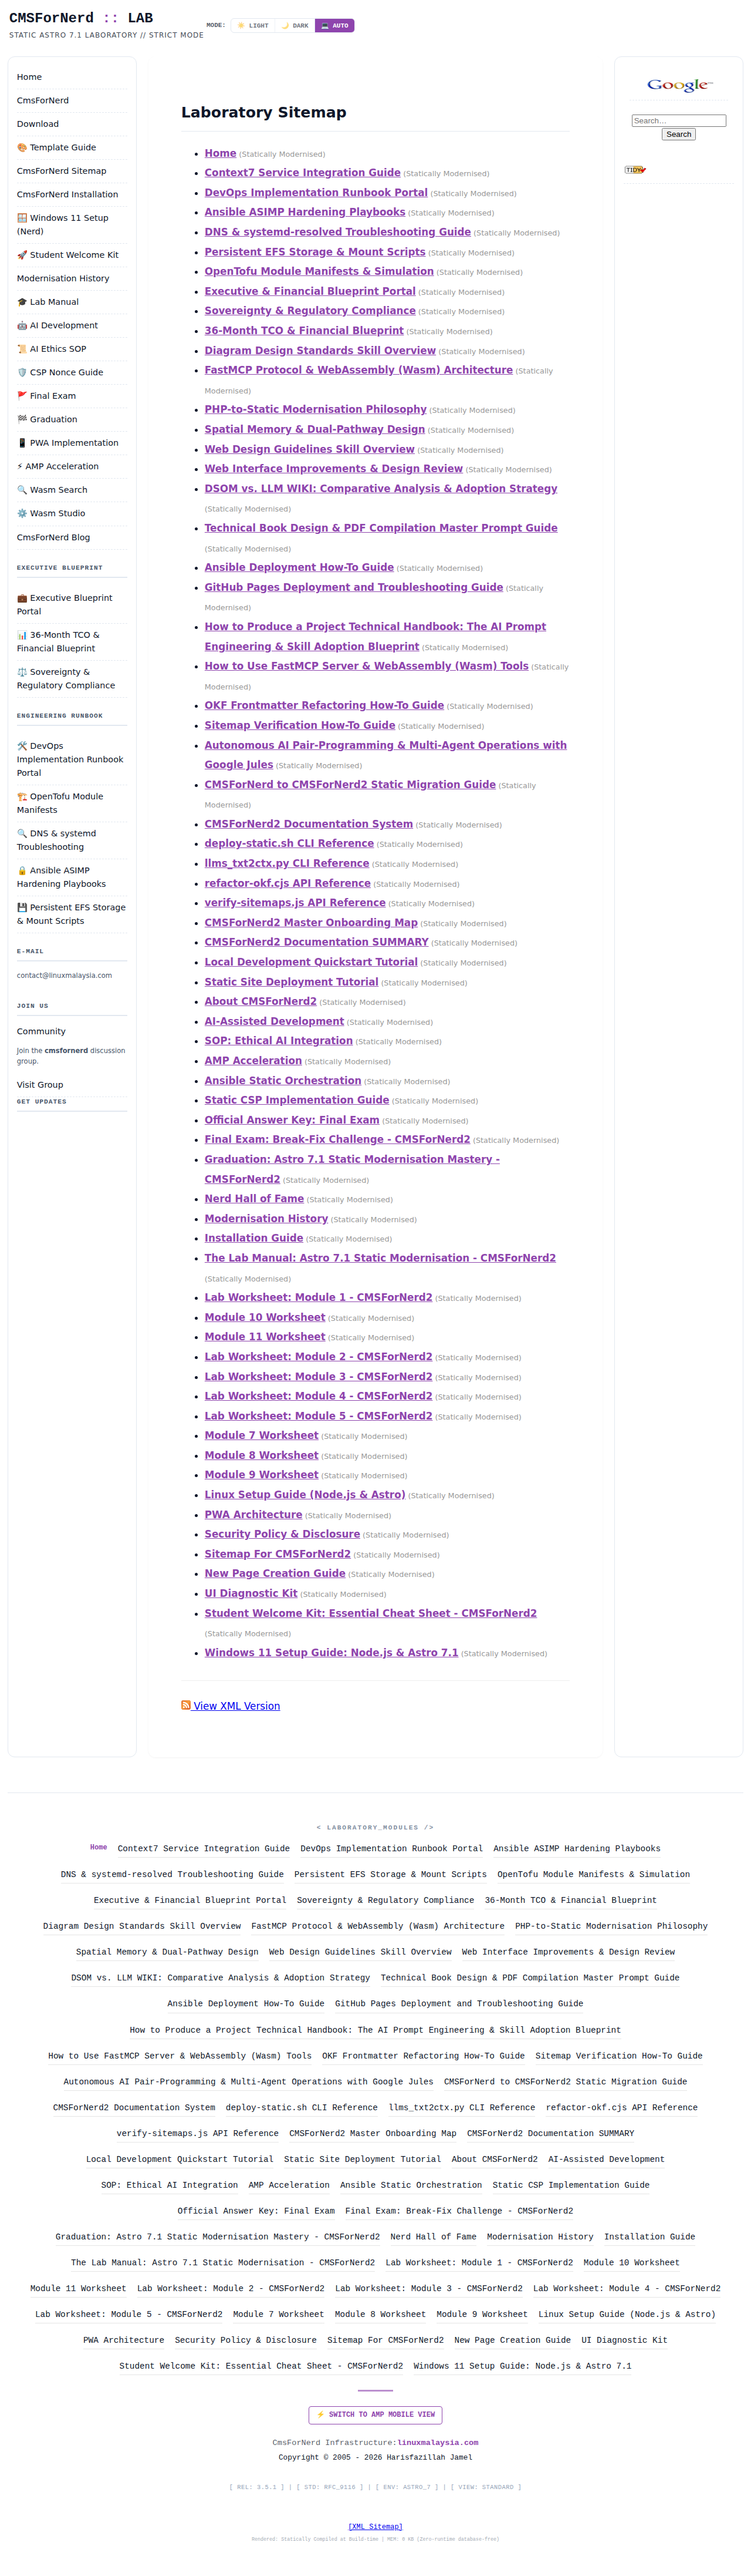
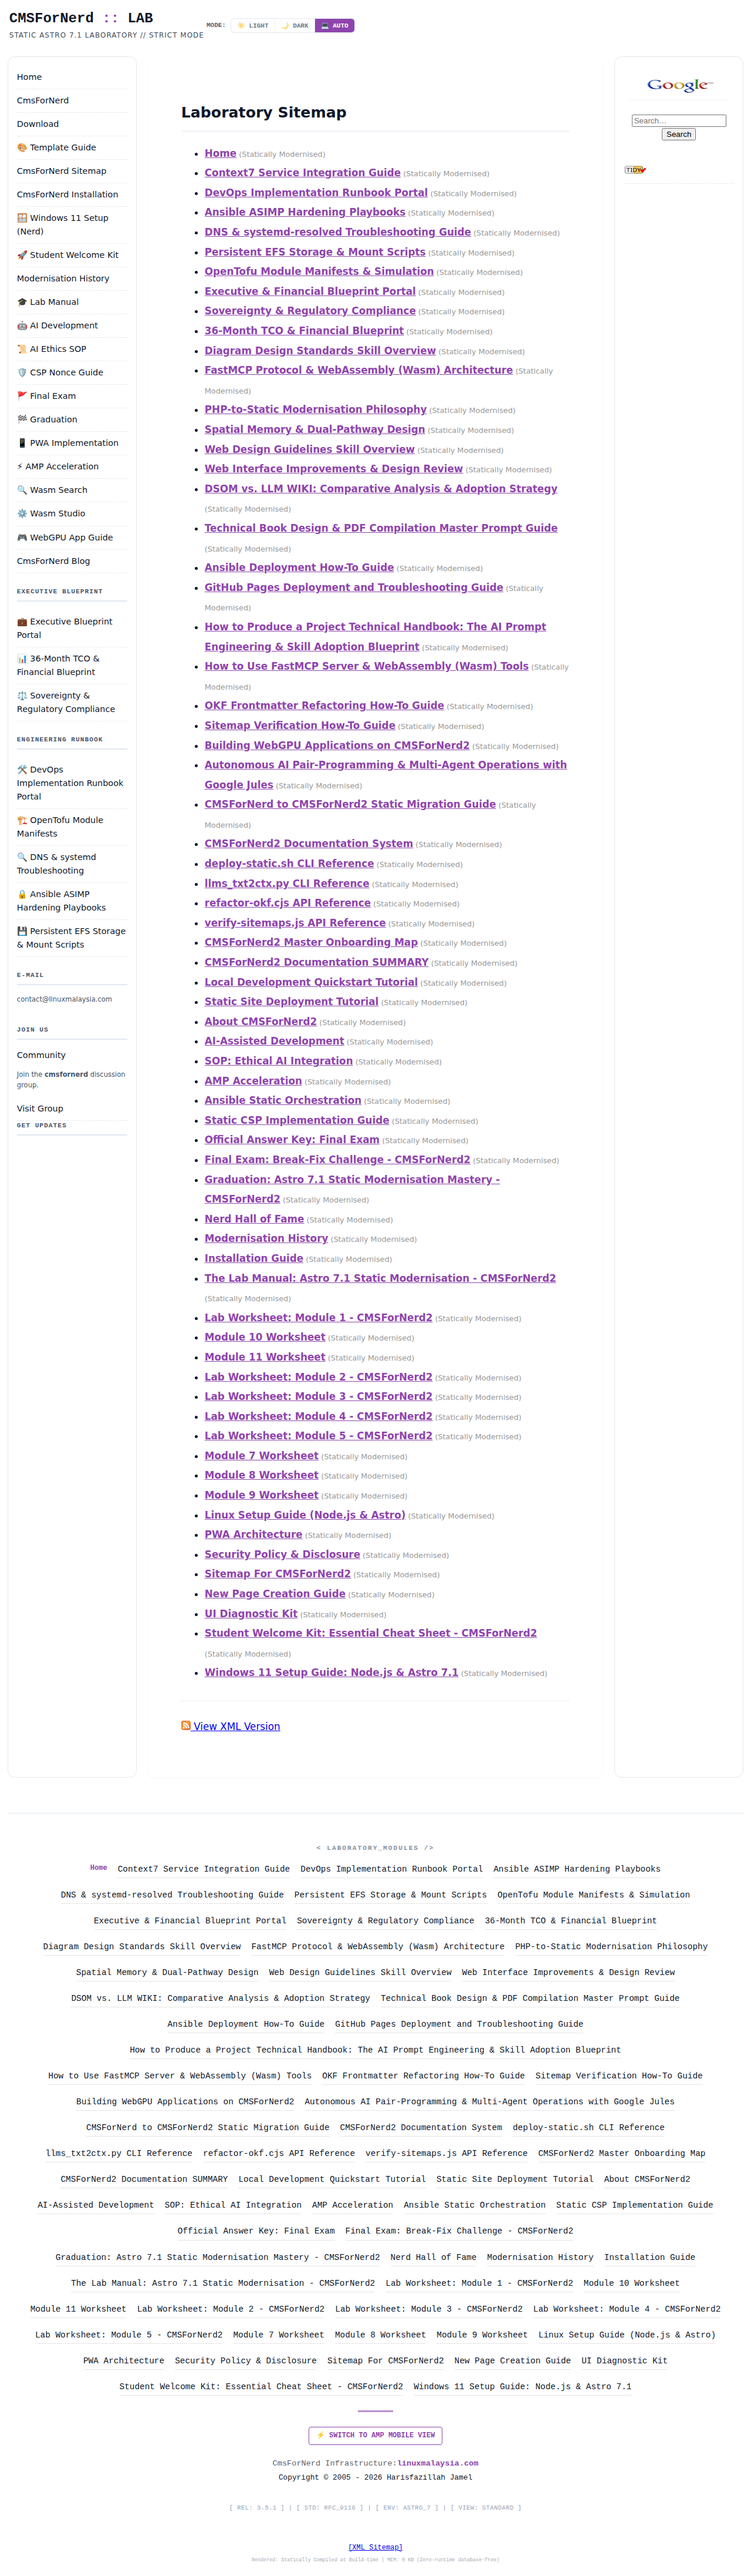
Add WebGPU application development documentation
Add a comprehensive developer guide for building WebGPU applications
on CMSForNerd2 in docs/how-to/webgpu-application-development.md.
Includes tri-tiered ensemble fallback architecture, capability probing,
WebLLM integration, IndexedDB RAG context coupling, and Nginx security
headers. Indexed in docs/SUMMARY.md, docs/README.md, and Navigation.astro.

diff --git a/docs/how-to/webgpu-application-development.md b/docs/how-to/webgpu-application-development.md
@@ -1,0 +1,307 @@
+---
+spec_version: "0.2"
+type: "how_to"
+title: "Building WebGPU Applications on CMSForNerd2"
+description: "Comprehensive guide and developer manual for implementing WebGPU hardware acceleration, WebLLM on-device inference, dynamic tri-tiered ensemble fallbacks, and air-gapped RAG pipelines within web applications based on CMSForNerd2."
+topics: ["webgpu", "webllm", "wasm", "ensemble", "air-gapped", "rag", "how-to"]
+okf_version: "0.2"
+nav_order: 2
+status: "stable"
+stale_after: "2027-03-06"
+sources:
+- id: workspace_file
+  title: webgpu-application-development.md
+  url: docs/how-to/webgpu-application-development.md
+generated:
+  by: Repository Architect & OKF v0.2 Compliance Agent
+  timestamp: '2026-09-08T00:00:00Z'
+tags: ["webgpu", "webllm", "wasm", "ensemble", "air-gapped", "rag", "how-to"]
+---
+
+# Building WebGPU Applications on CMSForNerd2
+
+This guide provides a complete developer manual and step-by-step implementation framework for building modern, air-gapped web applications powered by **WebGPU** hardware acceleration on top of **CMSForNerd2**.
+
+---
+
+## 1. WebGPU Architecture in CMSForNerd2
+
+CMSForNerd2 leverages WebGPU to deliver low-latency, 100% offline, privacy-preserving artificial intelligence directly within the user's web browser. By executing quantized LLM tensors (`Llama-3.2-1B-Instruct-q4f16`, `Qwen2.5-0.5B-Instruct-q4f16`) via GPU compute shaders, web applications achieve high-throughput inference without server backends or network data transmission.
+
+### Tri-Tiered Ensemble Pipeline Architecture
+
+#### 1. ASCII Tree Diagram
+
+```
+                              ┌──────────────────────────┐
+                              │    User Hardware Request  │
+                              └────────────┬─────────────┘
+                                           │
+                                  Capability Probe
+                                           │
+             ┌─────────────────────────────┼─────────────────────────────┐
+             ▼                             ▼                             ▼
+  ┌──────────────────────┐      ┌──────────────────────┐      ┌──────────────────────┐
+  │ Tier 1: WebGPU       │      │ Tier 2: Wasm SIMD    │      │ Tier 3: AST Guardrail│
+  │ Hardware Accelerator │      │ Multi-Thread CPU     │      │ Rule-Based Synthesiser│
+  └──────────────────────┘      └──────────────────────┘      └──────────────────────┘
+```
+
+#### 2. Standalone Dark Slate Raw SVG Vector Graphic (`.svg`)
+
+```xml
+<svg xmlns="http://www.w3.org/2000/svg" viewBox="0 0 800 360" width="100%" height="100%">
+  <defs>
+    <marker id="arrow" viewBox="0 0 10 10" refX="6" refY="5" markerWidth="6" markerHeight="6" orient="auto-start-reverse">
+      <path d="M 0 0 L 10 5 L 0 10 z" fill="#94A3B8"/>
+    </marker>
+  </defs>
+
+  <rect width="100%" height="100%" fill="#0F172A" rx="12"/>
+
+  <text x="400" y="35" text-anchor="middle" fill="#38BDF8" font-family="-apple-system, sans-serif" font-size="16" font-weight="bold" letter-spacing="1">WEBGPU TRI-TIERED ENSEMBLE FALLBACK ARCHITECTURE</text>
+
+  <!-- Probe Node -->
+  <rect x="250" y="60" width="300" height="50" rx="8" fill="#1E293B" stroke="#38BDF8" stroke-width="2"/>
+  <text x="400" y="90" text-anchor="middle" fill="#FFFFFF" font-family="-apple-system, sans-serif" font-size="12" font-weight="bold">HARDWARE CAPABILITY PROBE ('gpu' in navigator)</text>
+
+  <!-- Branch Lines -->
+  <path d="M 300 110 L 150 160" stroke="#94A3B8" stroke-width="2" marker-end="url(#arrow)"/>
+  <path d="M 400 110 L 400 160" stroke="#94A3B8" stroke-width="2" marker-end="url(#arrow)"/>
+  <path d="M 500 110 L 650 160" stroke="#94A3B8" stroke-width="2" marker-end="url(#arrow)"/>
+
+  <!-- Tier 1 -->
+  <rect x="30" y="160" width="220" height="150" rx="8" fill="#1E293B" stroke="#4ADE80" stroke-width="2"/>
+  <rect x="30" y="160" width="220" height="28" rx="8" fill="#15803D"/>
+  <text x="140" y="179" text-anchor="middle" fill="#FFFFFF" font-family="-apple-system, sans-serif" font-size="11" font-weight="bold">TIER 1: WEBGPU PRIMARY</text>
+  <text x="140" y="210" text-anchor="middle" fill="#F8FAFC" font-family="-apple-system, sans-serif" font-size="11">GPU Compute Shaders</text>
+  <text x="140" y="230" text-anchor="middle" fill="#E2E8F0" font-family="Consolas, monospace" font-size="10">WebLLM Matrix Tensors</text>
+  <text x="140" y="260" text-anchor="middle" fill="#4ADE80" font-family="-apple-system, sans-serif" font-size="11" font-weight="bold">High Throughput (~42 t/s)</text>
+  <text x="140" y="285" text-anchor="middle" fill="#94A3B8" font-family="-apple-system, sans-serif" font-size="10">Zero Network Leakage</text>
+
+  <!-- Tier 2 -->
+  <rect x="290" y="160" width="220" height="150" rx="8" fill="#1E293B" stroke="#FBBF24" stroke-width="2"/>
+  <rect x="290" y="160" width="220" height="28" rx="8" fill="#B45309"/>
+  <text x="400" y="179" text-anchor="middle" fill="#FFFFFF" font-family="-apple-system, sans-serif" font-size="11" font-weight="bold">TIER 2: WASM SIMD CPU</text>
+  <text x="400" y="210" text-anchor="middle" fill="#F8FAFC" font-family="-apple-system, sans-serif" font-size="11">Multi-Thread CPU Fallback</text>
+  <text x="400" y="230" text-anchor="middle" fill="#E2E8F0" font-family="Consolas, monospace" font-size="10">128-bit Vector Registers</text>
+  <text x="400" y="260" text-anchor="middle" fill="#FBBF24" font-family="-apple-system, sans-serif" font-size="11" font-weight="bold">Moderate (~12 t/s)</text>
+  <text x="400" y="285" text-anchor="middle" fill="#94A3B8" font-family="-apple-system, sans-serif" font-size="10">Restricted GPU Adapters</text>
+
+  <!-- Tier 3 -->
+  <rect x="550" y="160" width="220" height="150" rx="8" fill="#1E293B" stroke="#C084FC" stroke-width="2"/>
+  <rect x="550" y="160" width="220" height="28" rx="8" fill="#6B21A8"/>
+  <text x="660" y="179" text-anchor="middle" fill="#FFFFFF" font-family="-apple-system, sans-serif" font-size="11" font-weight="bold">TIER 3: AST SYNTHESISER</text>
+  <text x="660" y="210" text-anchor="middle" fill="#F8FAFC" font-family="-apple-system, sans-serif" font-size="11">WebTreeSitter AST Engine</text>
+  <text x="660" y="230" text-anchor="middle" fill="#E2E8F0" font-family="Consolas, monospace" font-size="10">Deterministic Parsing</text>
+  <text x="660" y="260" text-anchor="middle" fill="#C084FC" font-family="-apple-system, sans-serif" font-size="11" font-weight="bold">Instant Repair (&lt;2ms)</text>
+  <text x="660" y="285" text-anchor="middle" fill="#94A3B8" font-family="-apple-system, sans-serif" font-size="10">Structural Code Repair</text>
+</svg>
+```
+
+#### 3. Git-Native Mermaid Diagram (`.mmd`)
+
+```mermaid
+graph TD
+    subgraph Probe ["Hardware Initialization"]
+        PROBE["Probe Navigator (`'gpu' in navigator`)"]
+    end
+
+    subgraph Tiers ["Tri-Tiered Fallback Pipeline"]
+        T1["Tier 1: WebGPU Compute Shaders<br/>(Primary WebLLM Engine)"]
+        T2["Tier 2: Wasm SIMD CPU Fallback<br/>(Secondary Multi-Threaded Engine)"]
+        T3["Tier 3: WebTreeSitter AST Synthesiser<br/>(Deterministic Guardrail Layer)"]
+    end
+
+    PROBE -->|"WebGPU Supported & Ready"| T1
+    PROBE -->|"GPU Unavailable / Isolated"| T2
+    T2 -->|"Model Loading Failed / Hardware Constraint"| T3
+```
+
+#### 4. Summary Interface & Routing Table
+
+| Tier Layer | Runtime Engine | Primary Use Case | Hardware Requirement | Fallback Trigger |
+| :--- | :--- | :--- | :--- | :--- |
+| **Tier 1 (Primary)** | `@mlc-ai/web-llm` over WebGPU | Quantized LLM inference & RAG synthesis | Modern GPU compute adapter (`navigator.gpu`) | WebGPU adapter absent or origin isolation disabled |
+| **Tier 2 (Fallback)** | WebAssembly 128-bit SIMD | Multi-threaded CPU LLM inference | Multi-core CPU with Wasm SIMD support | Model memory allocation overflow or GPU driver timeout |
+| **Tier 3 (Guardrail)** | `web-tree-sitter` WASM AST | Structural syntax parsing & deterministic repairs | Standard browser JS runtime | Complete LLM engine unreachability or offline emergency |
+
+---
+
+## 2. Hardware Capability Detection & Setup
+
+Before initializing WebGPU inference pipelines, your application must inspect client browser capabilities and report fallback states to the user.
+
+### Detecting WebGPU and Memory Boundaries
+
+```javascript
+/**
+ * Probes browser capabilities for WebGPU, Wasm 128-bit SIMD, and cross-origin isolation.
+ * @returns {Promise<Object>} Status report containing capability booleans and recommendations.
+ */
+async function inspectWebGPUCapabilities() {
+  const hasWebGPU = ('gpu' in navigator);
+  let adapterInfo = null;
+
+  if (hasWebGPU) {
+    try {
+      const adapter = await navigator.gpu.requestAdapter();
+      if (adapter) {
+        adapterInfo = await adapter.requestAdapterInfo();
+      }
+    } catch (err) {
+      console.warn('WebGPU adapter request failed:', err);
+    }
+  }
+
+  const hasSIMD = typeof WebAssembly === 'object' && typeof WebAssembly.validate === 'function' &&
+    WebAssembly.validate(new Uint8Array([0,97,115,109,1,0,0,0,1,5,1,96,0,1,123,3,2,1,0,10,10,1,8,0,65,0,253,15,26,11]));
+
+  const isIsolated = window.crossOriginIsolated === true;
+  const deviceMemory = navigator.deviceMemory || 'Unrestricted';
+
+  return {
+    hasWebGPU: Boolean(hasWebGPU && adapterInfo),
+    adapterName: adapterInfo ? adapterInfo.description || adapterInfo.vendor : 'Unavailable',
+    hasSIMD,
+    isIsolated,
+    deviceMemory: typeof deviceMemory === 'number' ? `${deviceMemory} GB` : deviceMemory,
+    recommendedTier: (hasWebGPU && adapterInfo) ? 'Tier 1: WebGPU' : (hasSIMD ? 'Tier 2: Wasm SIMD' : 'Tier 3: AST Synthesiser')
+  };
+}
+```
+
+---
+
+## 3. WebLLM Integration & Air-Gapped RAG Workflow
+
+CMSForNerd2 pairs WebLLM (`@mlc-ai/web-llm`) with an in-browser vector embedding store (`WasmStudioVectorDB`) to deliver grounded, offline RAG synthesis.
+
+### Step 1: Initializing the WebLLM Engine
+
+```javascript
+import { CreateMLCEngine } from '@mlc-ai/web-llm';
+
+let engine = null;
+const SELECTED_MODEL = 'Llama-3.2-1B-Instruct-q4f16-MLC';
+
+/**
+ * Initializes the WebGPU WebLLM engine with progress callbacks.
+ * @param {Function} onProgress Progress callback reporting model download and setup status.
+ */
+async function initWebGPUEngine(onProgress) {
+  try {
+    engine = await CreateMLCEngine(SELECTED_MODEL, {
+      initProgressCallback: (progress) => {
+        if (onProgress) onProgress(progress.text, progress.progress);
+      }
+    });
+    console.log('✅ WebGPU LLM Engine successfully loaded.');
+  } catch (err) {
+    console.error('Tier 1 WebGPU initialization failed. Falling back to Tier 2 Wasm SIMD:', err);
+    // Execute fallback logic here
+  }
+}
+```
+
+### Step 2: Extracting Local Vector Context (IndexedDB)
+
+```javascript
+/**
+ * Computes cosine similarity between query embedding and stored document vectors.
+ * @param {Float32Array} queryVector 384-dimensional query vector.
+ * @param {Array<Object>} storedRecords IndexedDB vector records.
+ * @returns {Array<Object>} Top-K matched documents.
+ */
+function retrieveRAGContext(queryVector, storedRecords, topK = 3) {
+  return storedRecords.map(doc => {
+    let dot = 0, normA = 0, normB = 0;
+    for (let i = 0; i < queryVector.length; i++) {
+      dot += queryVector[i] * doc.vector[i];
+      normA += queryVector[i] * queryVector[i];
+      normB += doc.vector[i] * doc.vector[i];
+    }
+    const similarity = dot / (Math.sqrt(normA) * Math.sqrt(normB) + 1e-9);
+    return { ...doc, similarity };
+  })
+  .sort((a, b) => b.similarity - a.similarity)
+  .slice(0, topK);
+}
+```
+
+### Step 3: Generating Air-Gapped RAG Synthesis
+
+```javascript
+/**
+ * Synthesises grounded response using WebGPU LLM engine and local RAG context.
+ * @param {string} userQuery User prompt.
+ * @param {Array<Object>} contextDocs Matched local context documents.
+ * @returns {Promise<string>} Synthesised answer string.
+ */
+async function generateAirGappedSynthesis(userQuery, contextDocs) {
+  if (!engine) throw new Error('WebGPU Engine not initialized.');
+
+  const contextText = contextDocs.map(d => `[Source: ${d.title}]\n${d.content}`).join('\n\n');
+
+  const messages = [
+    { role: 'system', content: 'You are an air-gapped security AI assistant running 100% locally on WebGPU. Answer questions strictly using the provided context.' },
+    { role: 'user', content: `Context:\n${contextText}\n\nQuestion: ${userQuery}` }
+  ];
+
+  const response = await engine.chat.completions.create({
+    messages,
+    temperature: 0.2,
+    max_tokens: 512
+  });
+
+  return response.choices[0].message.content;
+}
+```
+
+---
+
+## 4. Security Headers & Performance Guardrails
+
+### 1. Nginx Cross-Origin Isolation (COOP & COEP)
+
+To allow WebGPU memory sharing and multi-threaded Wasm `SharedArrayBuffer` allocation without security warnings, your Nginx web server must emit cross-origin isolation headers.
+
+Ensure `nginx/nginx.conf` includes:
+
+```nginx
+# Enable Cross-Origin Isolation for WebGPU and Wasm SharedArrayBuffer
+add_header Cross-Origin-Opener-Policy "same-origin" always;
+add_header Cross-Origin-Embedder-Policy "require-corp" always;
+add_header Cross-Origin-Resource-Policy "cross-origin" always;
+
+# Static asset immutable caching for Wasm binaries and WebGPU models
+location ~* \.(wasm|bin|onnx)$ {
+    add_header Cache-Control "public, max-age=31536000, immutable";
+    add_header Access-Control-Allow-Origin "*";
+}
+```
+
+### 2. CSP SHA-256 Nonce Whitelisting
+
+When using inline WebGPU canvas renderers or script blocks in CMSForNerd2, calculate script SHA-256 digests via `/wasm-studio` and whitelist them inside your Nginx Content Security Policy:
+
+```nginx
+add_header Content-Security-Policy "default-src 'self'; script-src 'self' 'wasm-unsafe-eval' 'sha256-47DEQpj8HBSa+/TImW+5JCeuQeRkm5NMpJWZG3hSuFU='; style-src 'self' 'unsafe-inline'; worker-src 'self' blob:; img-src 'self' data:;";
+```
+
+---
+
+## 5. Verification & Testing Framework
+
+CMSForNerd2 includes automated E2E and unit tests for WebGPU workflows in `tests/test_e2e.py`.
+
+Run the test suite locally to verify WebGPU integration:
+
+```bash
+# Execute Pytest validation suite
+PYTHONPATH=. pytest tests/test_e2e.py -k test_wasm_studio_interactive_workflows
+```
+
+---
+*Deep State of Mind (DSOM) For My AI Protocol | Harisfazillah Jamel (LinuxMalaysia) | 2026-09-08*
+*Standard: UK English | DBP-standard Bahasa Melayu Malaysia (Piawai) | GNU General Public License v3.0*

diff --git a/docs/README.md b/docs/README.md
@@ -125,6 +125,7 @@ To explore our documentation system, navigate using the following curated pathwa
   * [OKF Frontmatter Refactoring](how-to/okf-refactoring.md) — How to automatically validate and repair Markdown metadata.
   * [Sitemap Verification](how-to/sitemap-verification.md) — How to verify that generated sitemap links match built static files.
   * [Ansible Static Security Hardening](how-to/ansible-deployment.md) — How to configure and deploy a production static site with dual-pathway branching.
+  * [Building WebGPU Applications](how-to/webgpu-application-development.md) — Complete guide to WebGPU hardware acceleration, tri-tiered ensemble fallbacks, and air-gapped RAG pipelines.
 * **Technical Specifications (Reference)**
   * [`refactor-okf.cjs` API](reference/refactor-okf.md) — Reference specifications for the YAML validation crawler.
   * [`verify-sitemaps.js` API](reference/verify-sitemaps.md) — Reference specifications for the sitemap testing engine.

diff --git a/docs/SUMMARY.md b/docs/SUMMARY.md
@@ -37,6 +37,7 @@ tags: ["summary", "index", "gitbook", "diataxis"]
 * [Ansible Static Security Hardening](how-to/ansible-deployment.md)
 * [GitHub Pages Deployment & Troubleshooting](how-to/github-pages-deployment-troubleshooting.md)
 * [FastMCP Server & WebAssembly Tools Usage](how-to/how-to-use-fastmcp-and-wasm.md)
+* [Building WebGPU Applications](how-to/webgpu-application-development.md)
 
 ## 🏗 Reference
 
